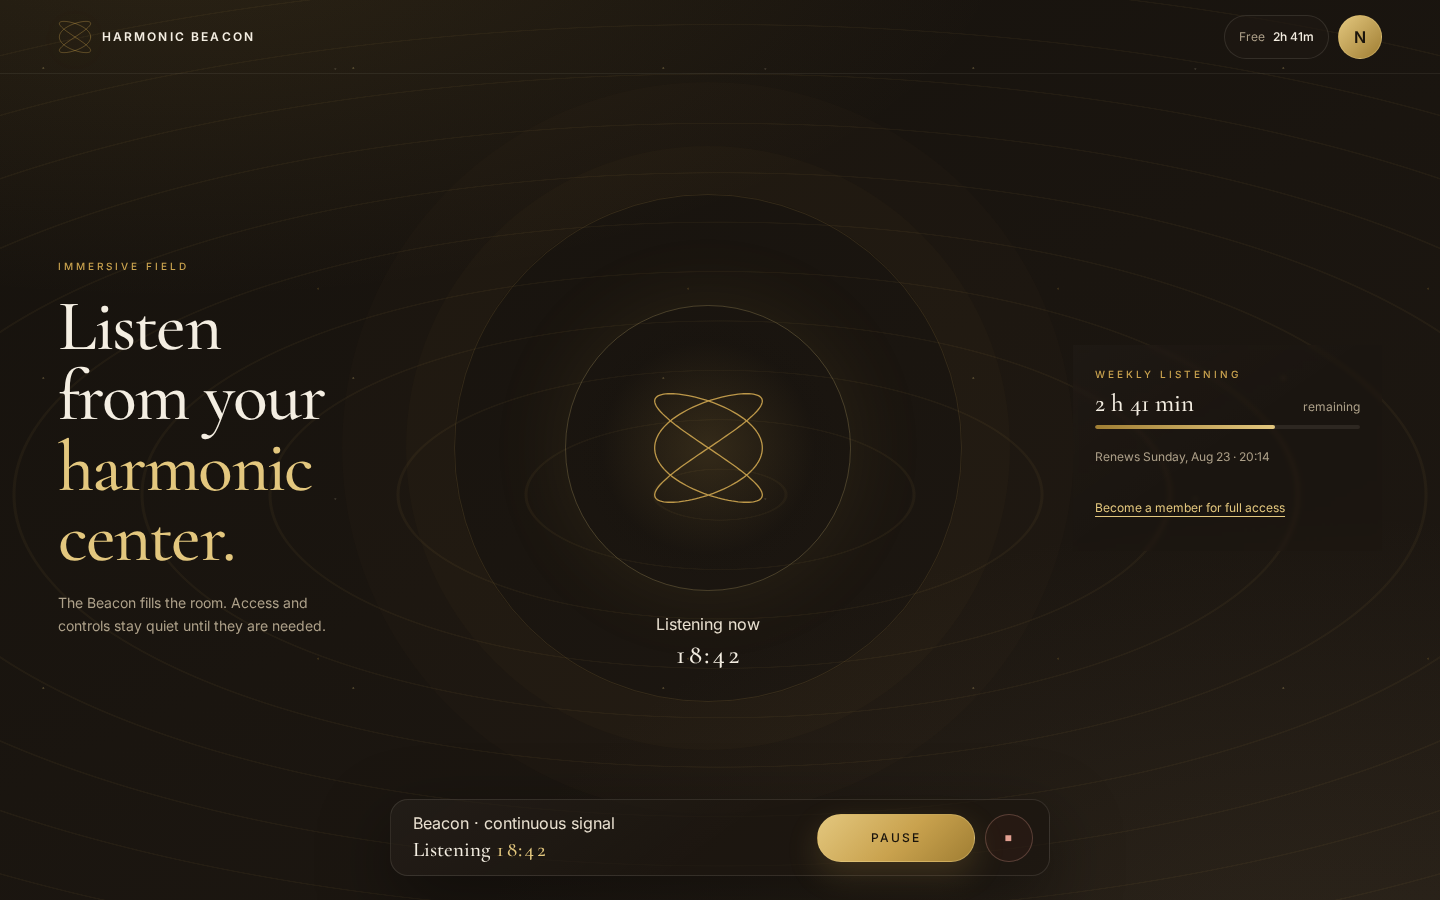
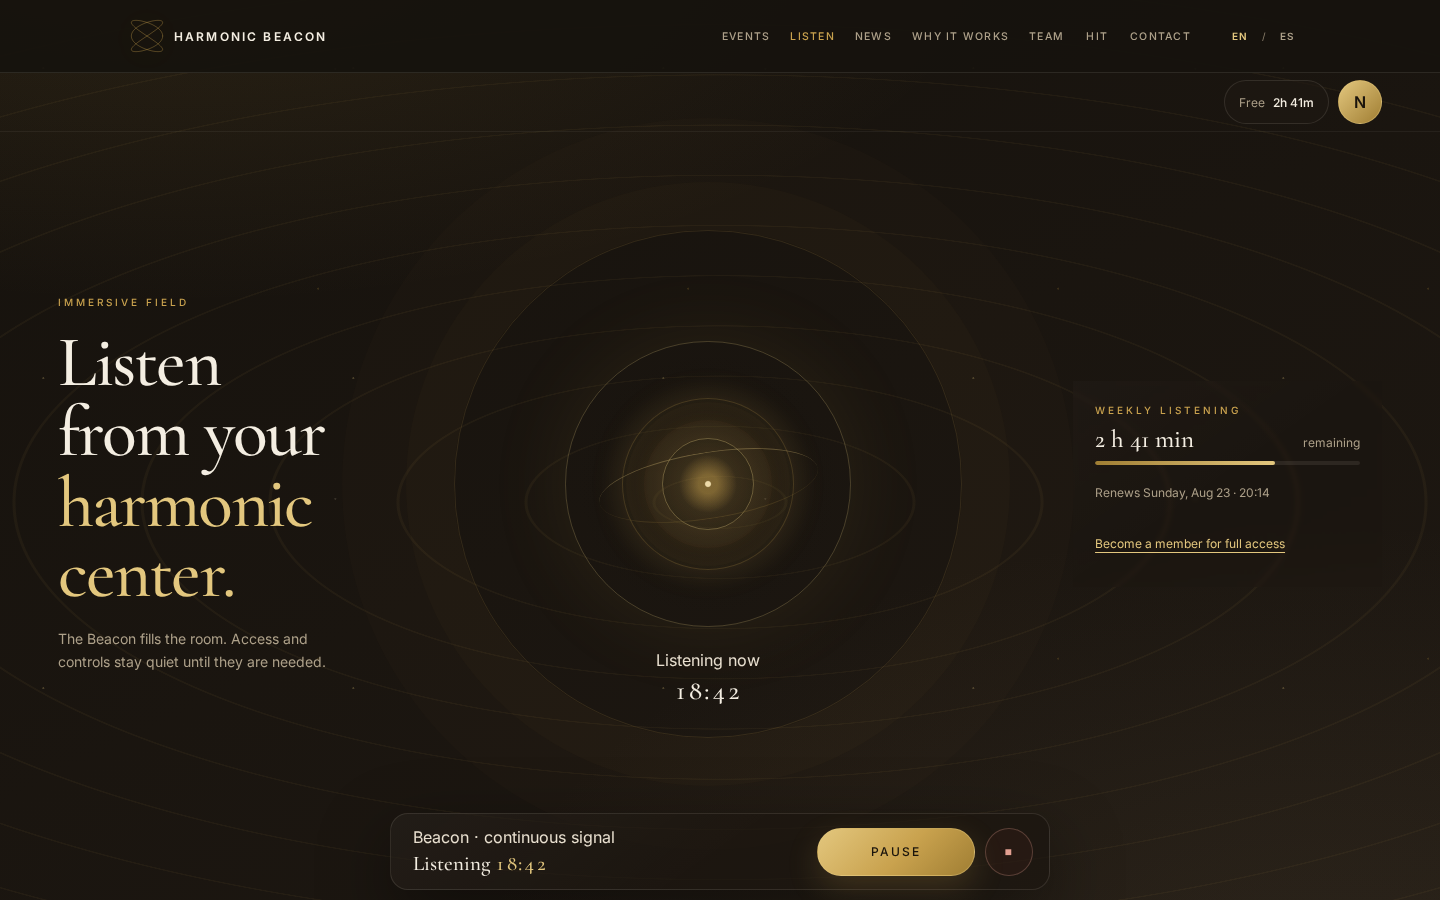
docs: align Listener prototypes with shared navigation

diff --git a/docs/design/prototypes/listener-ux/shared.css b/docs/design/prototypes/listener-ux/shared.css
@@ -172,13 +172,99 @@ html[data-capture="true"] .prototype-toolbar {
 .topbar {
   position: relative;
   z-index: 10;
-  display: flex;
-  min-height: 74px;
+  min-height: 72px;
+  padding: 0 24px;
+  color: var(--hb-bone);
+  background: rgba(22, 18, 13, 0.92);
+  border-bottom: 1px solid rgba(244, 238, 226, 0.1);
+}
+
+.global-nav {
+  display: grid;
+  width: min(100%, 1180px);
+  min-height: 72px;
   align-items: center;
-  justify-content: space-between;
+  grid-template-columns: auto 1fr auto;
   gap: 18px;
-  padding: 14px var(--safe-x);
-  border-bottom: 1px solid rgba(244, 238, 226, 0.07);
+  margin-inline: auto;
+}
+
+.nav-menu {
+  display: none;
+  width: 44px;
+  height: 44px;
+  padding: 13px 11px;
+  background: transparent;
+  border: 1px solid var(--hb-hair-soft);
+  border-radius: 50%;
+}
+
+.nav-menu span {
+  display: block;
+  height: 1px;
+  margin: 4px 0;
+  background: var(--hb-ink-800);
+}
+
+.nav-links {
+  display: flex;
+  align-items: center;
+  justify-content: flex-end;
+  gap: 2px;
+}
+
+.nav-links a {
+  display: inline-flex;
+  min-width: 44px;
+  min-height: 44px;
+  align-items: center;
+  justify-content: center;
+  padding: 0 9px;
+  color: var(--hb-ink-600);
+  font-size: 10.5px;
+  font-weight: 500;
+  letter-spacing: 0.12em;
+  text-decoration: none;
+  text-transform: uppercase;
+}
+
+.nav-links a[aria-current="page"] {
+  color: var(--hb-gold);
+}
+
+.nav-language {
+  display: inline-flex;
+  align-items: center;
+  color: var(--hb-ink-500);
+  font-size: 10px;
+}
+
+.nav-language button {
+  min-width: 44px;
+  min-height: 44px;
+  padding: 0;
+  color: var(--hb-ink-600);
+  background: transparent;
+  border: 0;
+  cursor: pointer;
+  font-size: 10px;
+  font-weight: 600;
+  letter-spacing: 0.13em;
+}
+
+.nav-language button[aria-pressed="true"] {
+  color: var(--hb-gold-2);
+}
+
+.listener-context-bar {
+  position: relative;
+  z-index: 9;
+  display: flex;
+  min-height: 58px;
+  align-items: center;
+  justify-content: flex-end;
+  padding: 7px var(--safe-x);
+  border-bottom: 1px solid rgba(244, 238, 226, 0.06);
 }
 
 .brand {
@@ -568,7 +654,7 @@ html[data-capture="true"] .prototype-toolbar {
 /* Immersive Field */
 .concept-immersive .immersive-layout {
   display: grid;
-  min-height: calc(100svh - 74px);
+  min-height: calc(100svh - 130px);
   grid-template-columns: minmax(230px, 0.72fr) minmax(420px, 1.55fr) minmax(250px, 0.78fr);
   align-items: center;
   gap: clamp(24px, 4vw, 72px);
@@ -622,9 +708,42 @@ html[data-capture="true"] .prototype-toolbar {
   border-radius: 50%;
 }
 
-.core-mark img {
-  width: 45%;
-  opacity: 0.92;
+.signal-nucleus {
+  position: relative;
+  width: 66%;
+  aspect-ratio: 1;
+  background:
+    radial-gradient(circle, rgba(244, 225, 176, 0.96) 0 2%, rgba(201, 162, 78, 0.44) 3% 8%, transparent 24%),
+    radial-gradient(circle, rgba(201, 162, 78, 0.12), transparent 64%);
+  border: 1px solid rgba(201, 162, 78, 0.24);
+  border-radius: 50%;
+  box-shadow:
+    0 0 34px rgba(201, 162, 78, 0.13),
+    inset 0 0 28px rgba(201, 162, 78, 0.08);
+}
+
+.signal-nucleus::before {
+  position: absolute;
+  inset: 23%;
+  content: "";
+  border: 1px solid rgba(227, 199, 126, 0.34);
+  border-radius: 50%;
+  box-shadow:
+    0 0 0 18px rgba(201, 162, 78, 0.04),
+    0 0 0 36px rgba(201, 162, 78, 0.025);
+}
+
+.signal-nucleus::after {
+  position: absolute;
+  top: 31%;
+  left: -15%;
+  width: 130%;
+  height: 38%;
+  content: "";
+  border-top: 1px solid rgba(227, 199, 126, 0.32);
+  border-bottom: 1px solid rgba(201, 162, 78, 0.16);
+  border-radius: 50%;
+  transform: rotate(-9deg);
 }
 
 .core-caption {
@@ -683,11 +802,11 @@ html[data-capture="true"] .prototype-toolbar {
 
 .altar-layout {
   display: grid;
-  min-height: calc(100svh - 74px);
+  min-height: calc(100svh - 130px);
   grid-template-columns: minmax(250px, 0.75fr) minmax(520px, 1.45fr) minmax(250px, 0.75fr);
   align-items: center;
   gap: clamp(24px, 4vw, 64px);
-  padding: 38px var(--safe-x);
+  padding: 18px var(--safe-x);
 }
 
 .altar-side {
@@ -699,7 +818,7 @@ html[data-capture="true"] .prototype-toolbar {
   position: relative;
   display: flex;
   flex-direction: column;
-  min-height: min(720px, calc(100svh - 120px));
+  min-height: min(690px, calc(100svh - 166px));
   padding: 28px;
   overflow: hidden;
   background: linear-gradient(160deg, rgba(36, 29, 21, 0.58), rgba(22, 18, 13, 0.72));
@@ -756,8 +875,6 @@ html[data-capture="true"] .prototype-toolbar {
   position: relative;
   z-index: 2;
   width: 108px;
-  padding: 22px;
-  background: radial-gradient(circle, rgba(201, 162, 78, 0.18), transparent 72%);
 }
 
 .altar-readout {
@@ -797,7 +914,7 @@ html[data-capture="true"] .prototype-toolbar {
 /* Spatial Dashboard */
 .dashboard-layout {
   display: grid;
-  min-height: calc(100svh - 74px);
+  min-height: calc(100svh - 130px);
   grid-template-columns: minmax(220px, 300px) minmax(460px, 1fr) minmax(240px, 320px);
   gap: 16px;
   padding: 18px;
@@ -833,7 +950,7 @@ html[data-capture="true"] .prototype-toolbar {
 .dashboard-player {
   position: relative;
   display: grid;
-  min-height: calc(100svh - 110px);
+  min-height: calc(100svh - 166px);
   grid-template-rows: auto 1fr auto;
   padding: 24px;
   overflow: hidden;
@@ -875,8 +992,8 @@ html[data-capture="true"] .prototype-toolbar {
   background: radial-gradient(circle, rgba(201, 162, 78, 0.16), transparent 72%);
 }
 
-.dashboard-core__mark img {
-  width: 54%;
+.dashboard-core__mark .signal-nucleus {
+  width: 68%;
 }
 
 .dashboard-player__foot {
@@ -928,6 +1045,38 @@ html[data-capture="true"] .prototype-toolbar {
   text-underline-offset: 4px;
 }
 
+@media (max-width: 1120px) {
+  .topbar,
+  .global-nav {
+    min-height: 68px;
+  }
+
+  .topbar {
+    padding-inline: 16px;
+  }
+
+  .global-nav {
+    grid-template-columns: 44px 1fr auto;
+    gap: 10px;
+  }
+
+  .nav-menu {
+    display: block;
+  }
+
+  .nav-links {
+    display: none;
+  }
+
+  .brand {
+    justify-self: center;
+  }
+
+  .listener-context-bar {
+    min-height: 56px;
+  }
+}
+
 @media (max-width: 980px) {
   .concept-immersive .immersive-layout,
   .altar-layout {
@@ -973,13 +1122,12 @@ html[data-capture="true"] .prototype-toolbar {
   }
 
   .dashboard-player {
-    min-height: calc(100svh - 110px);
+    min-height: calc(100svh - 168px);
   }
 }
 
 @media (max-width: 600px) {
   .topbar {
-    min-height: 66px;
     padding-inline: 16px;
   }
 
@@ -1010,7 +1158,7 @@ html[data-capture="true"] .prototype-toolbar {
   }
 
   .concept-immersive .immersive-layout {
-    min-height: calc(100svh - 66px);
+    min-height: calc(100svh - 124px);
     padding: 10px 12px 104px;
   }
 
@@ -1060,12 +1208,12 @@ html[data-capture="true"] .prototype-toolbar {
   }
 
   .altar-layout {
-    min-height: calc(100svh - 66px);
-    padding: 12px 12px 82px;
+    min-height: calc(100svh - 124px);
+    padding: 8px 12px;
   }
 
   .altar-frame {
-    min-height: calc(100svh - 92px);
+    min-height: calc(100svh - 144px);
     padding: 20px;
     border-radius: 26px 26px 16px 16px;
   }
@@ -1083,12 +1231,12 @@ html[data-capture="true"] .prototype-toolbar {
   }
 
   .dashboard-layout {
-    min-height: calc(100svh - 66px);
+    min-height: calc(100svh - 124px);
     padding: 10px;
   }
 
   .dashboard-player {
-    min-height: calc(100svh - 86px);
+    min-height: calc(100svh - 144px);
     padding: 18px;
   }
 
@@ -1120,6 +1268,10 @@ html[data-capture="true"] .prototype-toolbar {
 }
 
 @media (max-width: 360px) {
+  .brand span {
+    display: none;
+  }
+
   .top-actions .chip {
     display: none;
   }

diff --git a/docs/design/prototypes/listener-ux/spatial-dashboard.html b/docs/design/prototypes/listener-ux/spatial-dashboard.html
@@ -4,7 +4,8 @@
   <body data-state="listening">
     <nav class="prototype-toolbar" aria-label="Prototype states"><button data-state-button="visitor">Visitor</button><button data-state-button="free">Free</button><button data-state-button="founder">Founder</button><button data-state-button="listening">Listening</button><button data-state-button="paused">Paused</button><button data-state-button="profile">Profile</button><button data-state-button="checkout">Checkout</button></nav>
     <div class="prototype concept-dashboard">
-      <header class="topbar"><a class="brand" href="#" aria-label="Harmonic Beacon home"><img src="mark.svg" alt="" /><span>Harmonic Beacon</span></a><div class="top-actions"><span class="chip" data-show="free listening paused"><span>Free</span><strong>2h 41m</strong></span><span class="member-mark" data-show="founder">Founding Listener</span><button class="icon-button avatar" data-open-state="profile" aria-label="Open profile">N</button></div></header>
+      <header class="topbar"><div class="global-nav"><button class="nav-menu" aria-label="Open navigation"><span></span><span></span></button><a class="brand" href="#" aria-label="Harmonic Beacon home"><img src="mark.svg" alt="" /><span>Harmonic Beacon</span></a><nav class="nav-links" aria-label="Primary navigation"><a href="#">Events</a><a href="#" aria-current="page">Listen</a><a href="#">News</a><a href="#">Why it works</a><a href="#">Team</a><a href="#">HIT</a><a href="#">Contact</a></nav><div class="nav-language" role="group" aria-label="Language"><button aria-pressed="true">EN</button><span>/</span><button aria-pressed="false">ES</button></div></div></header>
+      <div class="listener-context-bar" data-show="free founder listening paused"><div class="top-actions"><span class="chip" data-show="free listening paused"><span>Free</span><strong>2h 41m</strong></span><span class="member-mark" data-show="founder">Founding Listener</span><button class="icon-button avatar" data-open-state="profile" aria-label="Open profile">N</button></div></div>
       <main class="dashboard-layout">
         <aside class="dashboard-column dashboard-column--context">
           <section class="dashboard-card surface"><p class="eyebrow">Spatial Dashboard</p><h2>Your listening space</h2><p class="lede">Access, time and presence live in separate quiet planes around the Beacon.</p></section>
@@ -13,7 +14,7 @@
         </aside>
         <section class="dashboard-player surface" aria-labelledby="dashboard-title">
           <div class="dashboard-player__head"><div><p class="eyebrow">Continuous signal</p><h1 id="dashboard-title">The Beacon</h1></div><span class="meta" data-show="listening">Live session</span></div>
-          <div class="dashboard-core"><div class="dashboard-core__mark"><img src="mark.svg" alt="" /></div><div class="core-caption" data-show="free founder"><span>Ready</span><strong>Listen from your center</strong></div><div class="core-caption" data-show="listening"><span>Listening now</span><strong class="listening-time">18:42</strong></div><div class="core-caption" data-show="paused"><span>Session held</span><strong>Paused</strong></div></div>
+          <div class="dashboard-core"><div class="dashboard-core__mark"><div class="signal-nucleus" aria-hidden="true"></div></div><div class="core-caption" data-show="free founder"><span>Ready</span><strong>Listen from your center</strong></div><div class="core-caption" data-show="listening"><span>Listening now</span><strong class="listening-time">18:42</strong></div><div class="core-caption" data-show="paused"><span>Session held</span><strong>Paused</strong></div></div>
           <div class="visitor-panel" data-show="visitor"><h2>Enter the Beacon</h2><label class="field-label">Email<input class="field-input" type="email" placeholder="you@example.com" /></label><button class="button">Continue with Google</button><button class="button button--ghost">Email me a link</button></div>
           <div class="dashboard-player__foot" data-show="free founder"><span class="meta">Beacon · continuous signal</span><button class="button">Listen</button></div>
           <div class="dashboard-player__foot" data-show="listening"><span class="meta">Session 18:42</span><div class="transport"><button class="button pause">Pause</button><button class="button button--danger stop" aria-label="Stop listening">■</button></div></div>

diff --git a/docs/design/prototypes/listener-ux/listening-altar.html b/docs/design/prototypes/listener-ux/listening-altar.html
@@ -4,12 +4,13 @@
   <body data-state="listening">
     <nav class="prototype-toolbar" aria-label="Prototype states"><button data-state-button="visitor">Visitor</button><button data-state-button="free">Free</button><button data-state-button="founder">Founder</button><button data-state-button="listening">Listening</button><button data-state-button="paused">Paused</button><button data-state-button="profile">Profile</button><button data-state-button="checkout">Checkout</button></nav>
     <div class="prototype concept-altar">
-      <header class="topbar"><a class="brand" href="#" aria-label="Harmonic Beacon home"><img src="mark.svg" alt="" /><span>Harmonic Beacon</span></a><div class="top-actions"><span class="chip" data-show="free listening paused"><span>Free</span><strong>2h 41m</strong></span><span class="member-mark" data-show="founder">Founding Listener</span><button class="icon-button avatar" data-open-state="profile" aria-label="Open profile">N</button></div></header>
+      <header class="topbar"><div class="global-nav"><button class="nav-menu" aria-label="Open navigation"><span></span><span></span></button><a class="brand" href="#" aria-label="Harmonic Beacon home"><img src="mark.svg" alt="" /><span>Harmonic Beacon</span></a><nav class="nav-links" aria-label="Primary navigation"><a href="#">Events</a><a href="#" aria-current="page">Listen</a><a href="#">News</a><a href="#">Why it works</a><a href="#">Team</a><a href="#">HIT</a><a href="#">Contact</a></nav><div class="nav-language" role="group" aria-label="Language"><button aria-pressed="true">EN</button><span>/</span><button aria-pressed="false">ES</button></div></div></header>
+      <div class="listener-context-bar" data-show="free founder listening paused"><div class="top-actions"><span class="chip" data-show="free listening paused"><span>Free</span><strong>2h 41m</strong></span><span class="member-mark" data-show="founder">Founding Listener</span><button class="icon-button avatar" data-open-state="profile" aria-label="Open profile">N</button></div></div>
       <main class="altar-layout">
         <aside class="altar-side"><p class="eyebrow">Listening Altar</p><h1 class="heading">A quiet place for the <em>Beacon.</em></h1><p class="lede">One deliberate action, a stable center and nothing that competes with listening.</p></aside>
         <section class="altar-frame surface" aria-labelledby="altar-title">
           <div class="altar-title"><p class="eyebrow">Continuous signal</p><h1 id="altar-title">The Beacon</h1></div>
-          <div class="altar-focus"><div class="altar-rings" aria-hidden="true"></div><img class="altar-mark" src="mark.svg" alt="" /></div>
+          <div class="altar-focus"><div class="altar-rings" aria-hidden="true"></div><div class="altar-mark signal-nucleus" aria-hidden="true"></div></div>
           <div class="altar-readout" data-show="free founder"><span>Ready</span><strong>Remember your harmonic center.</strong></div>
           <div class="altar-readout" data-show="listening"><span>Listening now</span><strong class="listening-time">18:42</strong></div>
           <div class="altar-readout" data-show="paused"><span>Session held</span><strong>Paused</strong></div>

diff --git a/docs/design/prototypes/listener-ux/immersive-field.html b/docs/design/prototypes/listener-ux/immersive-field.html
@@ -16,13 +16,14 @@
     </nav>
     <div class="prototype concept-immersive">
       <header class="topbar">
-        <a class="brand" href="#" aria-label="Harmonic Beacon home"><img src="mark.svg" alt="" /><span>Harmonic Beacon</span></a>
-        <div class="top-actions">
-          <span class="chip" data-show="free listening paused"><span>Free</span><strong>2h 41m</strong></span>
-          <span class="member-mark" data-show="founder">Founding Listener</span>
-          <button class="icon-button avatar" data-open-state="profile" aria-label="Open profile">N</button>
+        <div class="global-nav">
+          <button class="nav-menu" aria-label="Open navigation"><span></span><span></span></button>
+          <a class="brand" href="#" aria-label="Harmonic Beacon home"><img src="mark.svg" alt="" /><span>Harmonic Beacon</span></a>
+          <nav class="nav-links" aria-label="Primary navigation"><a href="#">Events</a><a href="#" aria-current="page">Listen</a><a href="#">News</a><a href="#">Why it works</a><a href="#">Team</a><a href="#">HIT</a><a href="#">Contact</a></nav>
+          <div class="nav-language" role="group" aria-label="Language"><button aria-pressed="true">EN</button><span>/</span><button aria-pressed="false">ES</button></div>
         </div>
       </header>
+      <div class="listener-context-bar" data-show="free founder listening paused"><div class="top-actions"><span class="chip" data-show="free listening paused"><span>Free</span><strong>2h 41m</strong></span><span class="member-mark" data-show="founder">Founding Listener</span><button class="icon-button avatar" data-open-state="profile" aria-label="Open profile">N</button></div></div>
       <main class="immersive-layout">
         <section class="immersive-intro" aria-labelledby="immersive-title">
           <p class="eyebrow">Immersive Field</p>
@@ -35,7 +36,7 @@
           </div>
         </section>
         <section class="field-core" aria-label="Beacon field">
-          <div class="core-mark"><img src="mark.svg" alt="" /></div>
+          <div class="core-mark"><div class="signal-nucleus" aria-hidden="true"></div></div>
           <div class="core-caption" data-show="free founder"><span>Ready when you are</span><strong>The Beacon is present</strong></div>
           <div class="core-caption" data-show="listening"><span>Listening now</span><strong class="listening-time">18:42</strong></div>
           <div class="core-caption" data-show="paused"><span>Session held</span><strong>Paused</strong></div>

diff --git a/docs/design/prototypes/listener-ux/README.md b/docs/design/prototypes/listener-ux/README.md
@@ -24,6 +24,8 @@ Each concept includes these static states:
 
 The controls only change the visual state in the document. Provider buttons, sign-in controls and transport controls have no external behavior.
 
+All three directions reproduce the same static global-navigation contract: seven desktop destinations plus EN/ES, and hamburger/brand/language on mobile. Listener quota, membership and profile controls live in a separate product strip below it. The Lissajous remains a small header mark only; the listening center uses an abstract signal nucleus rather than treating the logo as a visualization.
+
 ## Comparison
 
 | Concept | Core idea | Strengths | Risks | Mobile treatment |
